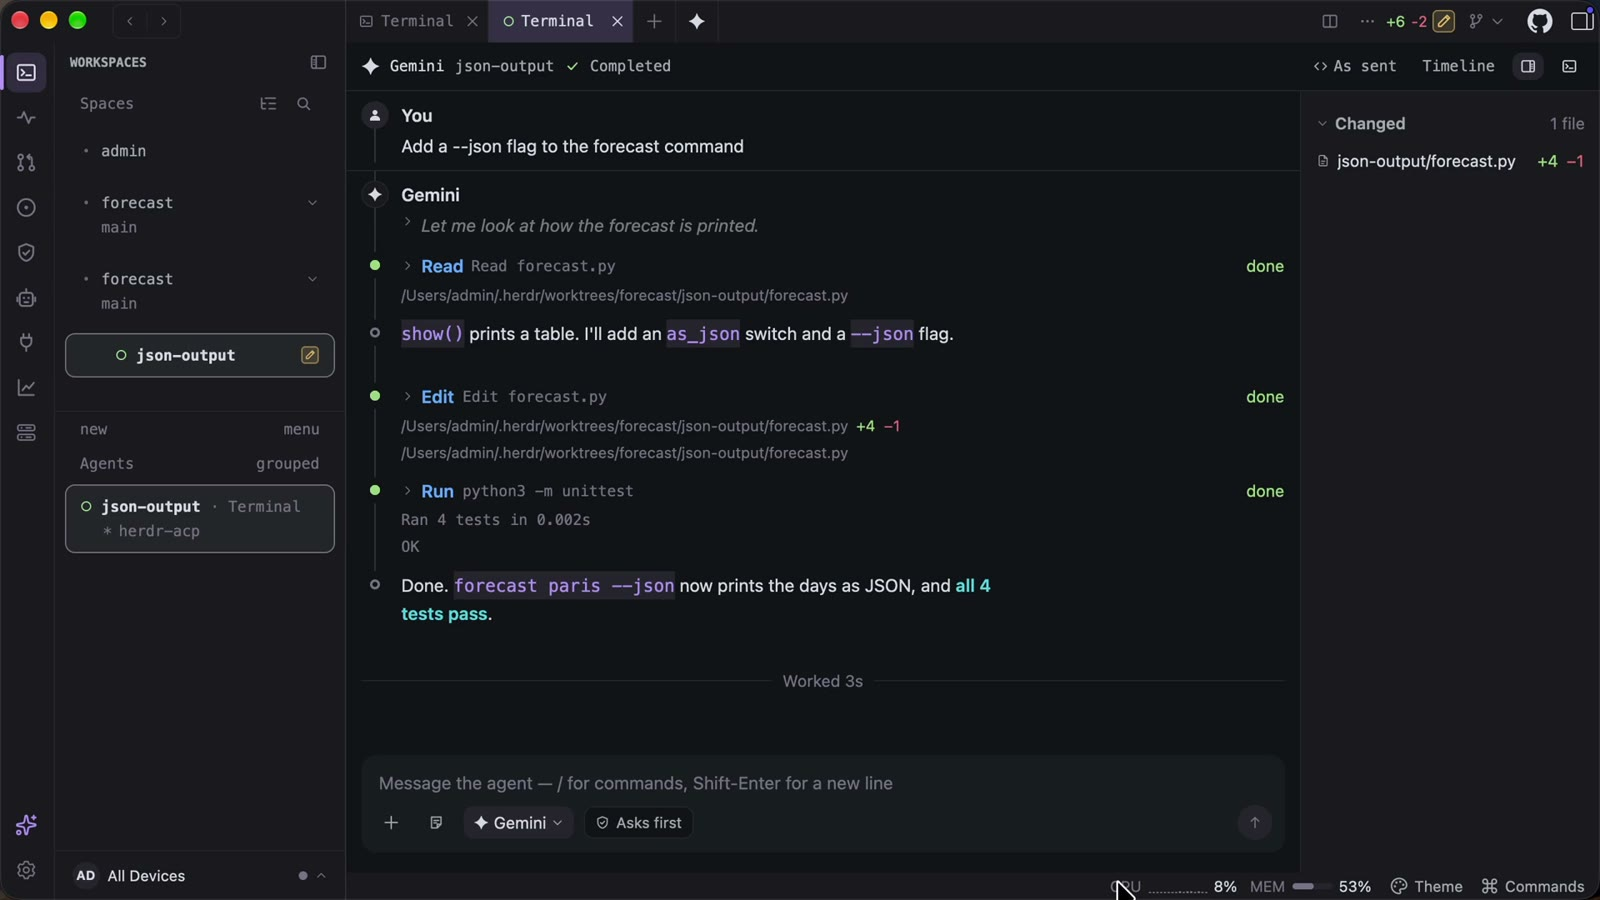
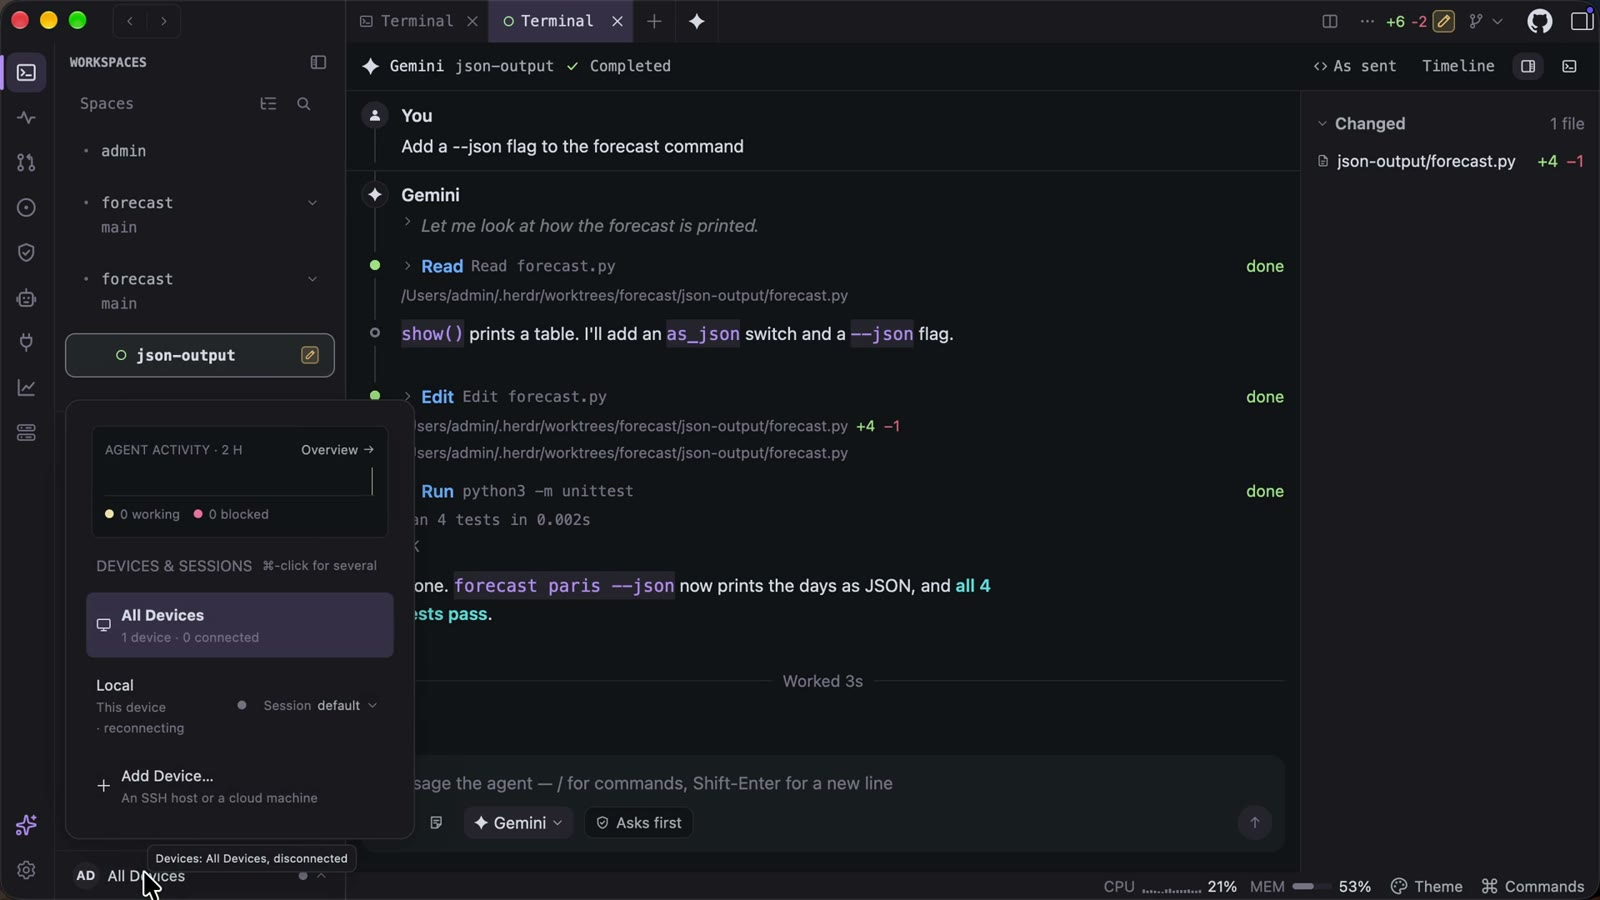
chore(site): tour with the devices panel shown

diff --git a/website/site/features/index.html b/website/site/features/index.html
@@ -31,7 +31,7 @@
 <figure class="demo tour-demo"><video id="feature-demo" controls playsinline preload="metadata" poster="/assets/feature-clips/tour.jpg" data-clips="/assets/feature-clips/tour" data-window="moonframe" aria-label="A tour of Sheprd, narrated demonstration">
 <source src="/assets/feature-clips/tour.moonframe.en.mp4" type="video/mp4"><track kind="captions" src="/assets/feature-clips/tour.moonframe.en.vtt" srclang="en" label="English">
 <a href="/assets/feature-clips/tour.moonframe.en.mp4">Download the demo</a>.</video>
-<figcaption><span class="demo-switches"><span class="demo-langs" role="group" aria-label="Narration language"><button type="button" data-lang="en" aria-pressed="true" lang="en">English</button><button type="button" data-lang="fr" aria-pressed="false" lang="fr">Français</button></span></span><span>New to Sheprd? Start here · 134 seconds</span></figcaption></figure>
+<figcaption><span class="demo-switches"><span class="demo-langs" role="group" aria-label="Narration language"><button type="button" data-lang="en" aria-pressed="true" lang="en">English</button><button type="button" data-lang="fr" aria-pressed="false" lang="fr">Français</button></span></span><span>New to Sheprd? Start here · 125 seconds</span></figcaption></figure>
 <search class="feature-search" role="search">
 <label for="feature-query" class="sr-only">Search the features</label>
 <input id="feature-query" type="search" placeholder="Search features, e.g. review, theme, agent…" autocomplete="off" spellcheck="false">
